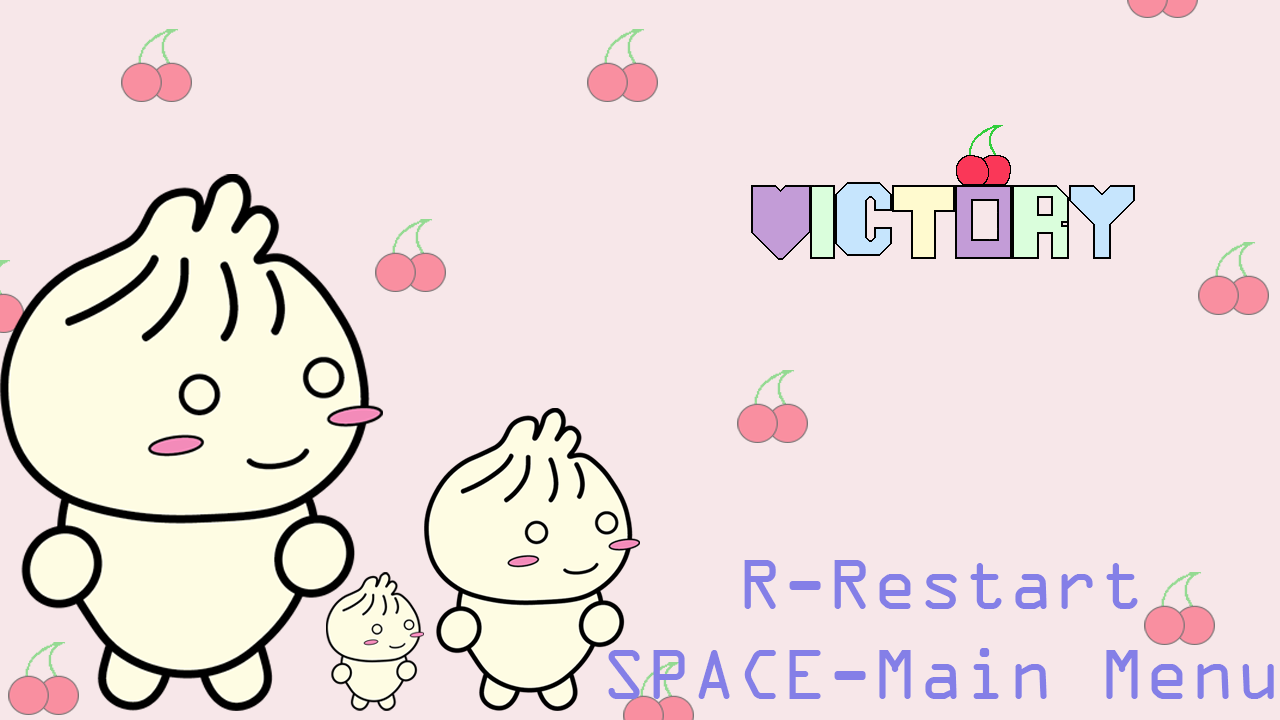
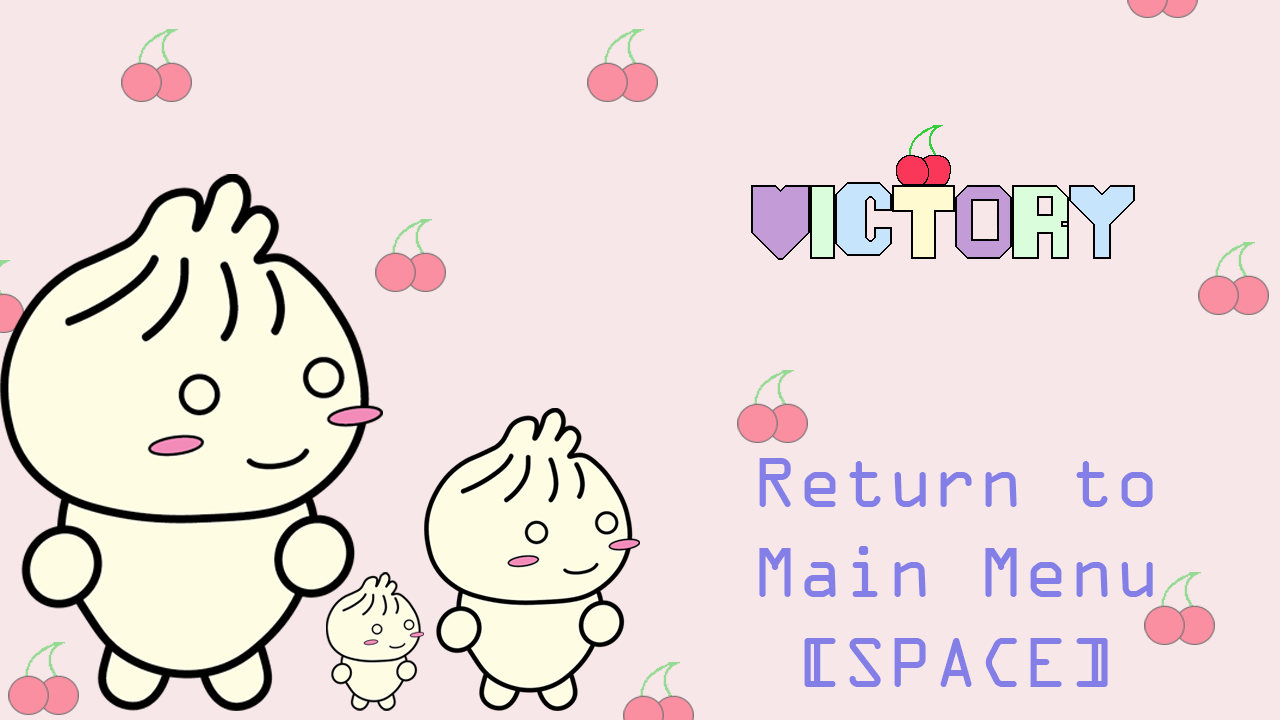
polish complete

diff --git a/src/scenes/Level02.js b/src/scenes/Level02.js
@@ -13,6 +13,7 @@ class level02 extends Phaser.Scene {
         this.load.image("flag", "./assets/test-flag.png");
         this.load.image("spark", "./assets/spark.png");
         this.load.image("vicText", "./assets/victory text.png");
+        this.load.image("cloud", "./assets/cloud.png");
         this.load.spritesheet("player_walk", "./assets/Animations/PlayerRunAnim.png", {frameWidth: 200, frameHeight: 189, startFrame: 0, endFrame: 8});
         this.load.spritesheet("player_idle", "./assets/Animations/PlayerIdleAnim.png", {frameWidth: 191, frameHeight: 185, startFrame: 0, endFrame: 4});
         this.load.spritesheet("player_jump", "./assets/Animations/PlayerJumpAnim.png", {frameWidth: 210, frameHeight: 185, startFrame: 0, endFrame: 1});
@@ -21,8 +22,6 @@ class level02 extends Phaser.Scene {
         this.load.spritesheet("player_deathEnemy", "./assets/Animations/PlayerDeath(1)Anim.png", {frameWidth: 180, frameHeight: 181, startFrame: 0, endFrame: 3});
         this.load.spritesheet("player_deathClaw", "./assets/Animations/PlayerDeath(2)Anim.png", {frameWidth: 180, frameHeight: 191, startFrame: 0, endFrame: 4});
         this.load.spritesheet("player_deathSpike", "./assets/Animations/PlayerDeath(3)Anim.png", {frameWidth: 180, frameHeight: 191, startFrame: 0, endFrame: 3});
-        
-        //this.load.spritesheet("player_land", "./assets/Animations/PlayerLandAnim.png", {frameWidth: 190, frameHeight: 185, startFrame: 0, endFrame: 2});
     }
 
     create() {
@@ -32,14 +31,26 @@ class level02 extends Phaser.Scene {
         this.enemy01Move = false;
         this.enemy02Move = false;
         this.enemy03Move = false;
+        this.obstacleTrigger = false;
+        this.obstacleRetract = false;
         onLevel02 = true;
+        
         // set bounds of world so player can't walk off
         this.physics.world.setBounds(0, 0, game.config.width * 2.5, game.config.height , true, false, true, true);
 
         // set gravity
         this.physics.world.gravity.y = 3000;
-        
-        this.obstacleTrigger = false;
+
+        // create cloud objects for parallax scrolling
+        this.cloud01 = this.physics.add.sprite(2000, 150, "cloud").setScale(1.2);
+        this.cloud01.body.setAllowGravity(false).setVelocityX(70);
+        this.cloud02 = this.physics.add.sprite(100, 50, "cloud").setScale(0.4);
+        this.cloud02.body.setAllowGravity(false).setVelocityX(130);
+        this.cloud02.depth = -2;
+        this.cloud03 = this.physics.add.sprite(1000, 200, "cloud").setScale(0.7);
+        this.cloud03.body.setAllowGravity(false).setVelocityX(100);
+        this.cloud04 = this.physics.add.sprite(2800, 400, "cloud").setScale(1.5);
+        this.cloud04.body.setAllowGravity(false).setVelocityX(40);
 
         // create and play background music
         this.music = this.sound.add("sfx_music02", {
@@ -101,12 +112,6 @@ class level02 extends Phaser.Scene {
             frames: this.anims.generateFrameNumbers('player_deathEnemy', { start: 0, end: 3, first: 0}),
             frameRate: 10
         });
-         // create landing animation for player
-        //  this.anims.create({
-        //     key: 'player-land',
-        //     frames: this.anims.generateFrameNumbers('player_land', { start: 0, end: 2, first: 0}),
-        //     frameRate: 5,
-        // });
 
         // create keybinds
         keyA = this.input.keyboard.addKey(Phaser.Input.Keyboard.KeyCodes.A);
@@ -197,10 +202,8 @@ class level02 extends Phaser.Scene {
         
         // create the bounce blocks
         this.createBounceBlock(tileSize * 61, tileSize * 63, game.config.height - (tileSize * 6) - 1);  // bounce blocks inside cube
-
         this.createBounceBlock(tileSize * 86, tileSize * 89, game.config.height - (tileSize * 1) - 1);  // bounce blocks before real flag
 
-        
         // create fake and real spike groups
         this.popFakeGroup = this.add.group();
         this.popRealGroup = this.add.group();
@@ -227,9 +230,9 @@ class level02 extends Phaser.Scene {
         this.createSpike(tileSize * 69, game.config.height - (tileSize * 7), true);     //
         this.createSpike(tileSize * 63, game.config.height - (tileSize * 2), false);    //
         this.createSpike(tileSize * 70, game.config.height - (tileSize * 2), true);     //
-        
         // ------- FINISHED CREATING SPIKES -------
 
+        // create enemy group
         this.enemyGroup = this.add.group();
         // create enemies
         this.enemy01 = this.physics.add.sprite(tileSize * 16, game.config.height - (tileSize * 3), "enemy").setScale(0.3);
@@ -296,7 +299,7 @@ class level02 extends Phaser.Scene {
             // allow player to jump
             if(this.player.body.touching.down && Phaser.Input.Keyboard.JustDown(keySPACE)) {
                 this.player.body.setVelocityY(jumpVelocity);
-                this.sound.play("sfx_jump", {volume: 0.2});
+                this.sound.play("sfx_bounce", {volume: 0.2});
             }
 
             // trigger the obstacle to drop on the player
@@ -371,9 +374,6 @@ class level02 extends Phaser.Scene {
             this.enemy03.anims.play("enemy-walk", true);
         }
 
-
-        
-
         // if player has  reached the flag, new keybinds are available
         if(this.playerWin) {
             this.time.delayedCall(3000, () => { this.scene.start("victoryScene"); });
@@ -384,6 +384,12 @@ class level02 extends Phaser.Scene {
         this.physics.world.collide(this.player, this.popRealGroup, this.playerCollisionSpike, null, this);
         this.physics.world.collide(this.player, this.enemyGroup, this.playerCollisionEnemy, null, this);
         this.physics.world.collide(this.player, this.obstacle, this.playerCollisionClaw, null, this);
+
+        // wrap cloud objects
+        this.physics.world.wrap(this.cloud01, this.cloud01.width / 2);
+        this.physics.world.wrap(this.cloud02, this.cloud02.width / 2);
+        this.physics.world.wrap(this.cloud03, this.cloud03.width / 2);
+        this.physics.world.wrap(this.cloud04, this.cloud04.width / 2);
     }
 
     playerCollisionClaw() {

diff --git a/src/scenes/Level01.js b/src/scenes/Level01.js
@@ -11,12 +11,12 @@ class Level01 extends Phaser.Scene {
         this.load.image("flag", "./assets/test-flag.png");
         this.load.image("spark", "./assets/spark.png");
         this.load.image("vicText", "./assets/victory text.png");
+        this.load.image("background", "./assets/candycaneBackground.png");
         this.load.spritesheet("player_walk", "./assets/Animations/PlayerRunAnim.png", {frameWidth: 200, frameHeight: 189, startFrame: 0, endFrame: 8});
         this.load.spritesheet("player_idle", "./assets/Animations/PlayerIdleAnim.png", {frameWidth: 191, frameHeight: 185, startFrame: 0, endFrame: 4});
         this.load.spritesheet("player_jump", "./assets/Animations/PlayerJumpAnim.png", {frameWidth: 210, frameHeight: 185, startFrame: 0, endFrame: 1});
         this.load.spritesheet("player_deathClaw", "./assets/Animations/PlayerDeath(2)Anim.png", {frameWidth: 180, frameHeight: 191, startFrame: 0, endFrame: 4});
         this.load.spritesheet("player_deathSpike", "./assets/Animations/PlayerDeath(3)Anim.png", {frameWidth: 180, frameHeight: 191, startFrame: 0, endFrame: 3});
-        //this.load.spritesheet("player_land", "./assets/Animations/PlayerLandAnim.png", {frameWidth: 190, frameHeight: 185, startFrame: 0, endFrame: 2});
     }
 
     create() {
@@ -29,6 +29,11 @@ class Level01 extends Phaser.Scene {
 
         // set bounds of world so player can't walk off
         this.physics.world.setBounds(0, 0, game.config.width * 2, game.config.height , true, false, true, true);
+
+        this.background01 = this.add.tileSprite(0, 0, 1280, 720, "background").setOrigin(0, 0);
+        this.background02 = this.add.tileSprite(1280, 0, 1280, 720, "background").setOrigin(0, 0);
+        this.background01.depth = -2;
+        this.background02.depth = -2;
 
         // add victory text and hide it
         this.vicText = this.add.tileSprite(1280, 0, 1280, 720, "vicText").setOrigin(0, 0);
@@ -180,6 +185,10 @@ class Level01 extends Phaser.Scene {
     }
 
     update() {
+
+        this.background01.tilePositionX += 0.2;
+        this.background02.tilePositionX += 0.2;
+
         // set left and right movement
         if(!this.playerDead) {
             if(keyA.isDown) {
@@ -206,7 +215,7 @@ class Level01 extends Phaser.Scene {
             // allow player to jump
             if(this.player.body.touching.down && Phaser.Input.Keyboard.JustDown(keySPACE)) {
                 this.player.body.setVelocityY(jumpVelocity);
-                this.sound.play("sfx_jump", {volume: 0.2});
+                this.sound.play("sfx_bounce", {volume: 0.2});
             }
 
             // trigger the obstacle to drop on the player

diff --git a/src/scenes/GameOver.js b/src/scenes/GameOver.js
@@ -4,21 +4,23 @@ class GameOver extends Phaser.Scene {
     }
 
     create() {
-        let tempText = {
-            fontFamily: 'Verdana',
-            fontSize: '32px',
-            backgroundColor: '#fecc98',
-            color: '#fd7f00',
-            align: 'center',
-            padding: {
-            top: 5,
-            bottom: 5,
-            },
-        }
-        this.add.rectangle(0, 0, game.config.width, game.config.height, 0xFACADE).setOrigin(0, 0);
-        this.add.text(centerX, centerY - 64, "game over", tempText).setOrigin(0.5);
-        this.add.text(centerX, centerY, "press (R) to restart level", tempText).setOrigin(0.5);
-        this.add.text(centerX, centerY + 64, "press (space) to return to main menu", tempText).setOrigin(0.5);
+
+        this.menu = this.add.tileSprite(0, 0, 1280, 720, "gameOver").setOrigin(0,0);
+        // let tempText = {
+        //     fontFamily: 'Verdana',
+        //     fontSize: '32px',
+        //     backgroundColor: '#fecc98',
+        //     color: '#fd7f00',
+        //     align: 'center',
+        //     padding: {
+        //     top: 5,
+        //     bottom: 5,
+        //     },
+        // }
+        // this.add.rectangle(0, 0, game.config.width, game.config.height, 0xFACADE).setOrigin(0, 0);
+        // this.add.text(centerX, centerY - 64, "game over", tempText).setOrigin(0.5);
+        // this.add.text(centerX, centerY, "press (R) to restart level", tempText).setOrigin(0.5);
+        // this.add.text(centerX, centerY + 64, "press (space) to return to main menu", tempText).setOrigin(0.5);
 
         // create keybinds
         keySPACE = this.input.keyboard.addKey(Phaser.Input.Keyboard.KeyCodes.SPACE);

diff --git a/src/scenes/Menu.js b/src/scenes/Menu.js
@@ -12,27 +12,12 @@ class Menu extends Phaser.Scene {
         this.load.audio("sfx_jump", "./assets/sfx/jump.wav");
         this.load.audio("sfx_bounce", "./assets/sfx/bounce.wav");
         this.load.image("menu", "./assets/final game menu.png");
+        this.load.image("gameOver", "./assets/final game over.png");
+        this.load.image("victory", "./assets/final game victory.png");
     }
 
     create() {
         this.menu = this.add.tileSprite(0, 0, 1280, 720, 'menu').setOrigin(0,0);
-        
-        /*
-        let tempText = {
-            fontFamily: 'Verdana',
-            fontSize: '32px',
-            backgroundColor: '#fecc98',
-            color: '#fd7f00',
-            align: 'center',
-            padding: {
-            top: 5,
-            bottom: 5,
-            },
-        }
-        this.add.rectangle(0, 0, game.config.width, game.config.height, 0xFACADE).setOrigin(0, 0);
-        this.add.text(centerX, centerY, "main menu", tempText).setOrigin(0.5);
-        this.add.text(centerX, centerY + 64, "press (space) to play", tempText).setOrigin(0.5);
-        */
 
         // create keybinds
         keyS = this.input.keyboard.addKey(Phaser.Input.Keyboard.KeyCodes.S);

diff --git a/src/scenes/Victory.js b/src/scenes/Victory.js
@@ -4,6 +4,9 @@ class Victory extends Phaser.Scene {
     }
 
     create() {
+
+        this.menu = this.add.tileSprite(0, 0, 1280, 720, "victory").setOrigin(0,0);
+
         // create keybinds
         keySPACE = this.input.keyboard.addKey(Phaser.Input.Keyboard.KeyCodes.SPACE);
         keyC = this.input.keyboard.addKey(Phaser.Input.Keyboard.KeyCodes.C);
